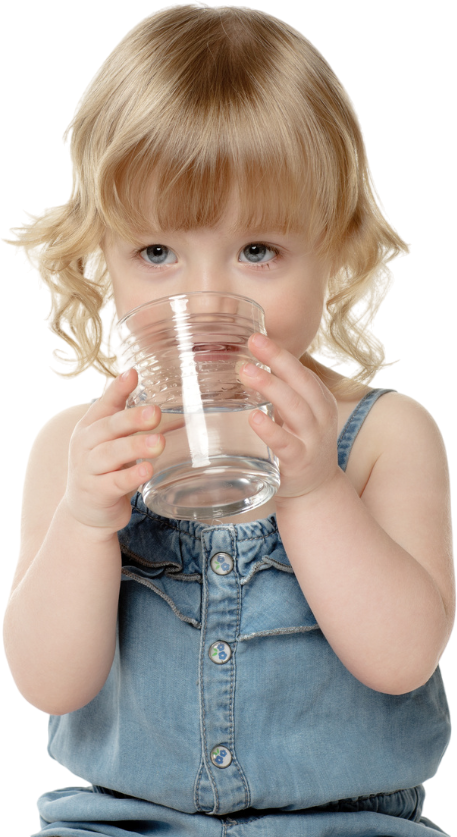
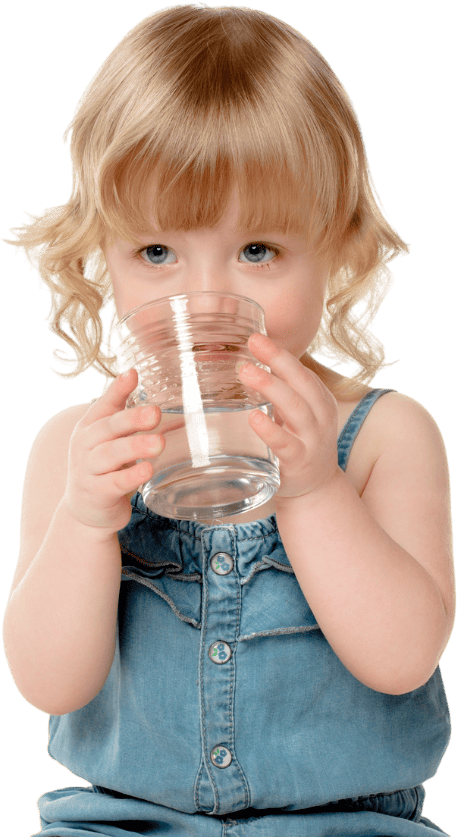
add improves

diff --git a/src/app/components/home/Hero.jsx b/src/app/components/home/Hero.jsx
@@ -1,12 +1,19 @@
-import Image from 'next/image'
-import '../../scss/pages/home/hero.scss'
+import Image from 'next/image';
+import '../../scss/pages/home/hero.scss';
 
 const Hero = () => {
-  return (
-    <div className='hero_container'>
-        <Image src="/home/water2.png" alt="ozonos_water_hero_image" objectPosition='right' width={5000} height={2200} />
-    </div>
-  )
-}
+    return (
+        <div className="hero_container">
+            <Image
+                src="/home/water.png"
+                alt="ozonos_water_hero_image"
+                objectPosition="right"
+                width={1920}
+                height={852}
+                loading='eager'
+            />
+        </div>
+    );
+};
 
-export default Hero
+export default Hero;

diff --git a/src/app/scss/pages/home/separator.scss b/src/app/scss/pages/home/separator.scss
@@ -1,6 +1,6 @@
 .separator_container{
     width: 100%;
-    height: 420px;
+    height: 100%
     
     img {
         width: 100%;
